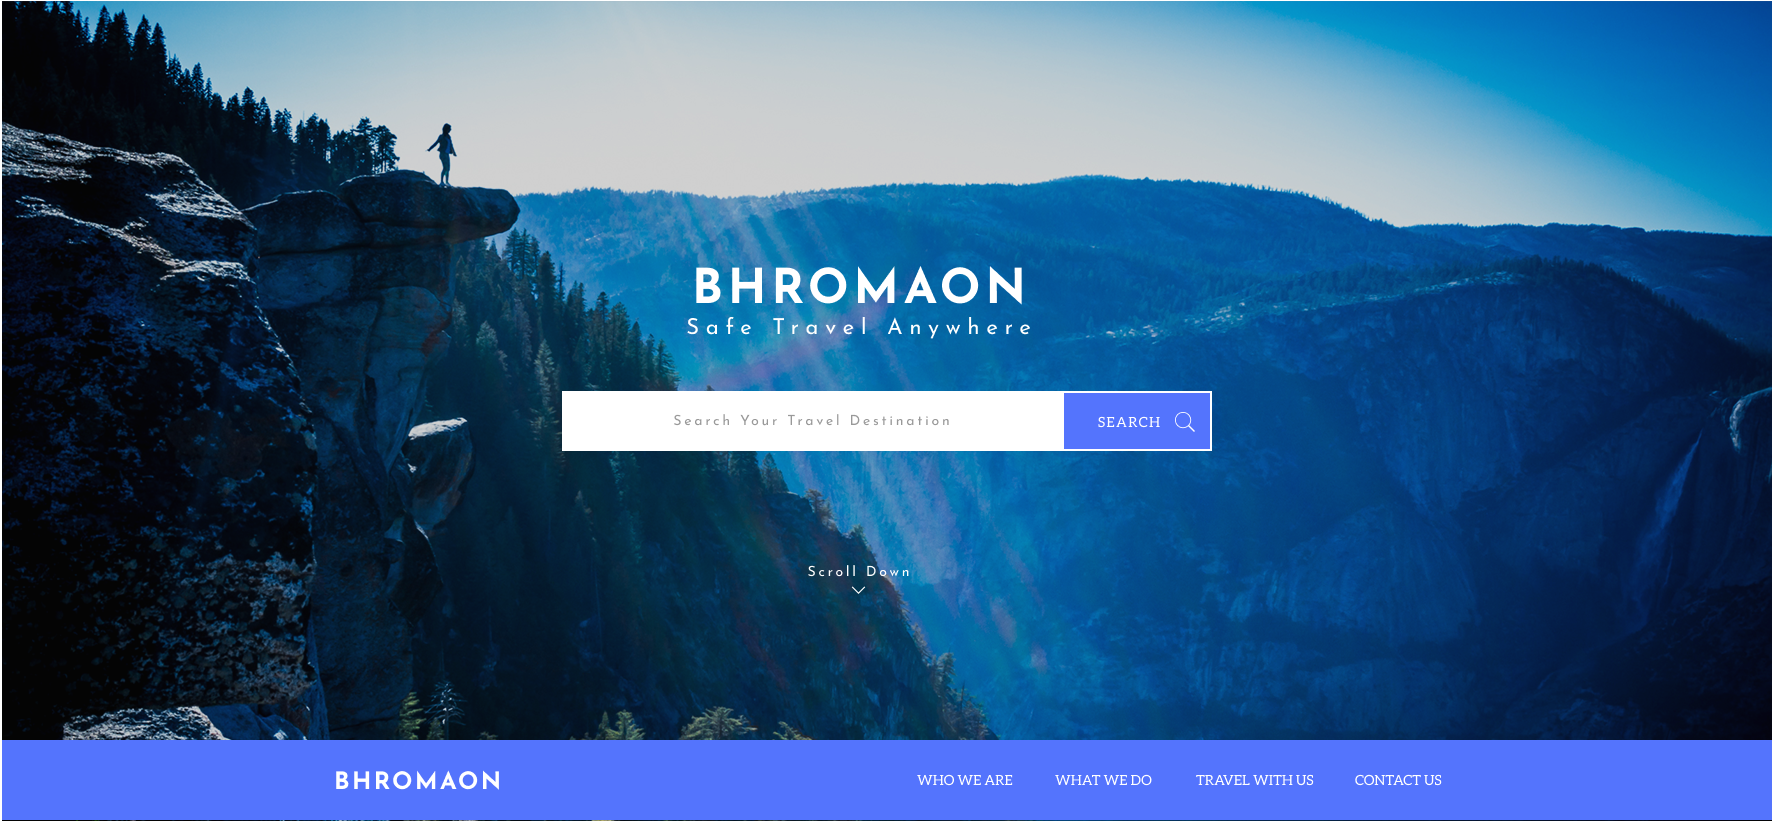
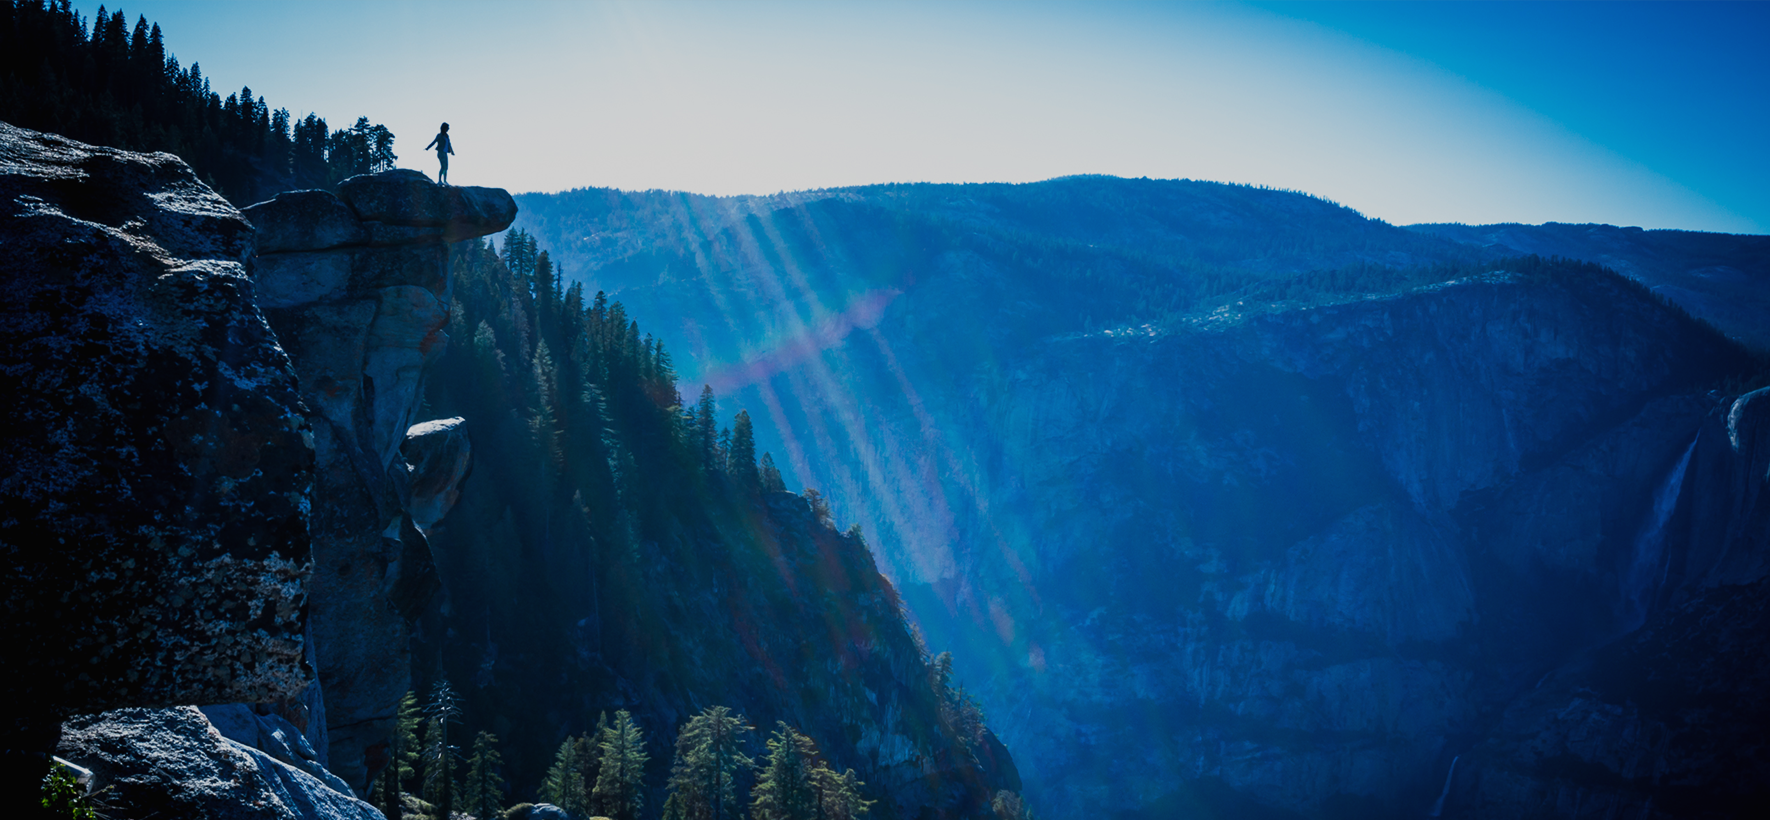
compiled sass styling and hero html

diff --git a/styles.scss b/styles.scss
@@ -1,0 +1,88 @@
+$primary-color: #5f4dee;
+$white: #ffffff;
+
+body, html {
+  margin: 0;
+  padding: 0;
+  font-family: 'Helvetica Neue', sans-serif;
+  height: 100%;
+}
+
+.hero {
+  background: url('./images/42d62715-b92a-4ac9-94b2-19c1f4199bad.png') no-repeat center center/cover;
+  height: 100vh;
+  display: flex;
+  align-items: center;
+  justify-content: center;
+  position: relative;
+
+  .overlay {
+    text-align: center;
+    color: $white;
+    padding: 0 20px;
+  }
+
+  .title {
+    font-size: 3rem;
+    letter-spacing: 5px;
+    font-weight: bold;
+  }
+
+  .subtitle {
+    font-size: 1.2rem;
+    margin-top: 0.5rem;
+    margin-bottom: 2rem;
+    letter-spacing: 2px;
+  }
+
+  .search-box {
+    display: flex;
+    justify-content: center;
+    margin: 20px auto;
+    max-width: 600px;
+
+    input {
+      padding: 1rem;
+      border: none;
+      width: 70%;
+      font-size: 1rem;
+      outline: none;
+      border-top-left-radius: 4px;
+      border-bottom-left-radius: 4px;
+    }
+
+    button {
+      background-color: $primary-color;
+      color: $white;
+      border: none;
+      padding: 1rem 1.5rem;
+      font-size: 1rem;
+      cursor: pointer;
+      display: flex;
+      align-items: center;
+      gap: 0.5rem;
+      border-top-right-radius: 4px;
+      border-bottom-right-radius: 4px;
+
+      .icon {
+        font-size: 1rem;
+      }
+    }
+  }
+
+  .scroll-down {
+    position: absolute;
+    bottom: 20px;
+    left: 50%;
+    transform: translateX(-50%);
+    font-size: 0.9rem;
+    color: $white;
+    text-align: center;
+
+    .arrow {
+      display: block;
+      font-size: 1.5rem;
+      margin-top: 5px;
+    }
+  }
+}

diff --git a/styles.css b/styles.css
@@ -1,0 +1,78 @@
+body, html {
+  margin: 0;
+  padding: 0;
+  font-family: "Helvetica Neue", sans-serif;
+  height: 100%;
+}
+
+.hero {
+  background: url("./images/Header.png") no-repeat center center/cover;
+  height: 100vh;
+  display: flex;
+  align-items: center;
+  justify-content: center;
+  position: relative;
+}
+.hero .overlay {
+  text-align: center;
+  color: #ffffff;
+  padding: 0 20px;
+}
+.hero .title {
+  font-size: 3rem;
+  letter-spacing: 5px;
+  font-weight: bold;
+}
+.hero .subtitle {
+  font-size: 1.2rem;
+  margin-top: 0.5rem;
+  margin-bottom: 2rem;
+  letter-spacing: 2px;
+}
+.hero .search-box {
+  display: flex;
+  justify-content: center;
+  margin: 20px auto;
+  max-width: 600px;
+}
+.hero .search-box input {
+  padding: 1rem;
+  border: none;
+  width: 70%;
+  font-size: 1rem;
+  outline: none;
+  border-top-left-radius: 4px;
+  border-bottom-left-radius: 4px;
+}
+.hero .search-box button {
+  background-color: #5f4dee;
+  color: #ffffff;
+  border: none;
+  padding: 1rem 1.5rem;
+  font-size: 1rem;
+  cursor: pointer;
+  display: flex;
+  align-items: center;
+  gap: 0.5rem;
+  border-top-right-radius: 4px;
+  border-bottom-right-radius: 4px;
+}
+.hero .search-box button .icon {
+  font-size: 1rem;
+}
+.hero .scroll-down {
+  position: absolute;
+  bottom: 20px;
+  left: 50%;
+  transform: translateX(-50%);
+  font-size: 0.9rem;
+  color: #ffffff;
+  text-align: center;
+}
+.hero .scroll-down .arrow {
+  display: block;
+  font-size: 1.5rem;
+  margin-top: 5px;
+}
+
+/*# sourceMappingURL=styles.css.map */

diff --git a/index.html b/index.html
@@ -5,11 +5,27 @@
     <meta name="viewport" content="width=device-width, initial-scale=1.0">
     <link href="https://fonts.googleapis.com/css2?family=Aleo:ital,wght@0,100..900;1,100..900&family=Josefin+Sans:ital,wght@0,100..700;1,100..700&display=swap" 
     rel="stylesheet">
-    <link rel="stylesheet" href="styles/index.css">
+    <link rel="stylesheet" href="styles.css">
     <link rel="stylesheet" href="styles/normalize.css">
     <title>Your Travel Page</title>
 </head>
 <body>
-    
+    <section class="hero">
+        <div class="overlay">
+            <h1 class="title">BHROMAON</h1>
+            <p class="subtitle">Safe Travel Anywhere</p>
+
+            <div class="search-box">
+                <input type="text" placeholder="Search Your Travel Destination" />
+                <button>
+                SEARCH <span class="icon">&#128269;</span>
+                </button>
+            </div>
+
+            <div class="scroll-down">Scroll Down<br />
+                <span class="arrow">&#x25BC;</span>
+            </div>
+        </div>
+    </section>
 </body>
 </html>
